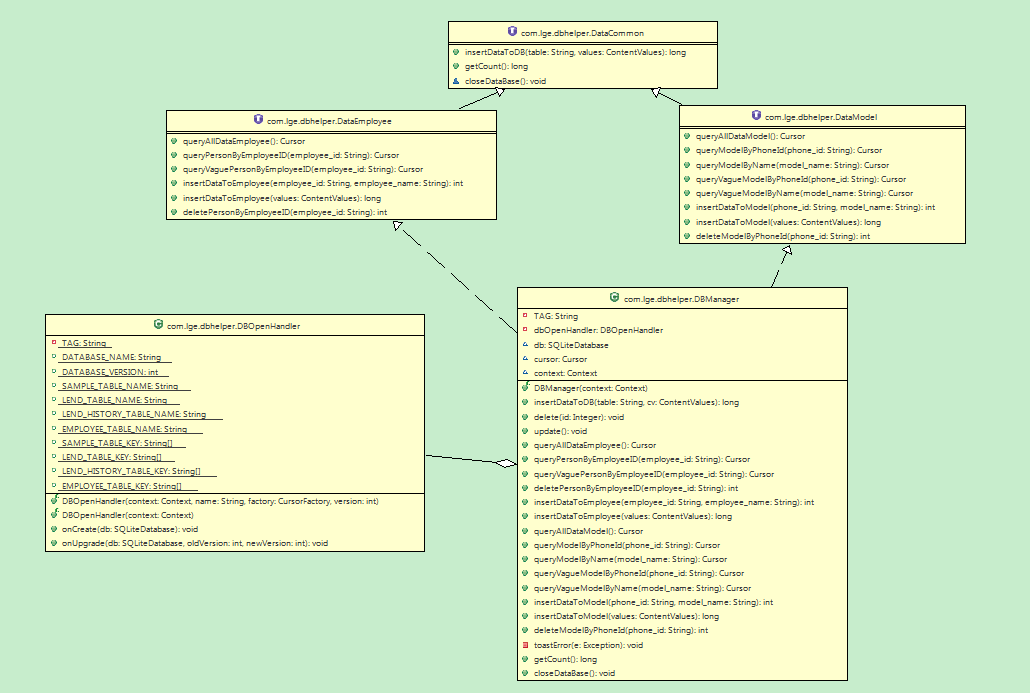
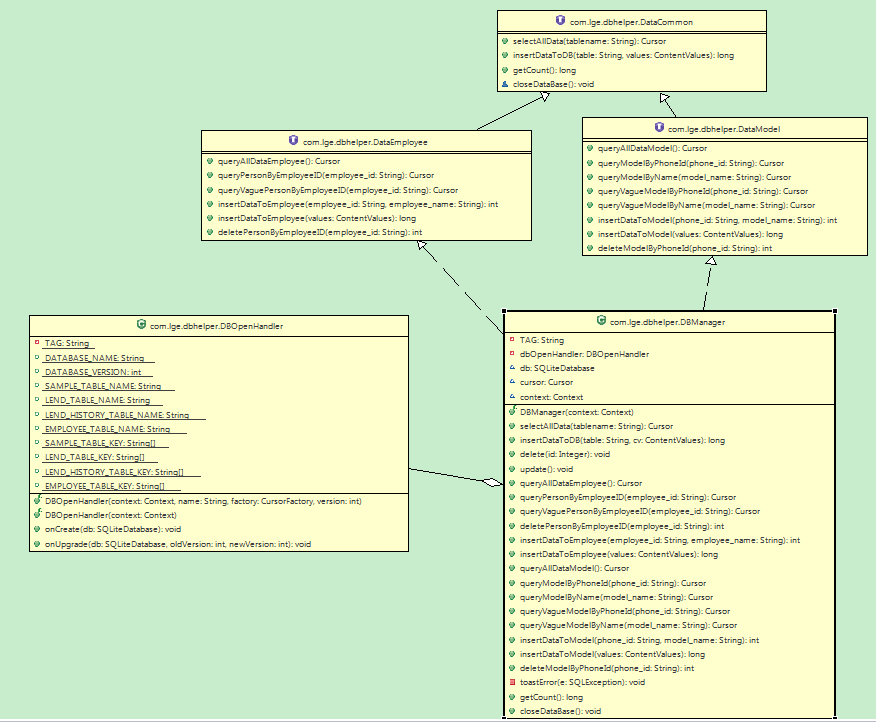
更新人员、样机表的查询语句，更新数据库类图

diff --git a/SampleManagement2/src/com/lge/dbhelper/DBManager.java b/SampleManagement2/src/com/lge/dbhelper/DBManager.java
@@ -20,7 +20,20 @@ public class DBManager implements DataEmployee, DataModel{
         this.dbOpenHandler = new DBOpenHandler(context);
         this.context = context;
     }
-    public long insertDataToDB(String table, ContentValues cv) {
+    
+    @Override
+	public Cursor selectAllData(String tablename) {
+    	try {
+            String sql = "select * from " + tablename;
+            Cursor cursor = db.rawQuery(sql, null);
+            return cursor;
+        }catch (SQLException e) {
+            toastError(e);
+            return null;
+        }
+	}
+
+	public long insertDataToDB(String table, ContentValues cv) {
         
         db = dbOpenHandler.getWritableDatabase();// Get DB operation
         
@@ -30,8 +43,6 @@ public class DBManager implements DataEmployee, DataModel{
         revalue = db.insert(table, null, cv);
         
         Log.i("AndrioidDBTest","insert sucessfully");
-        // Close DB
-        closeDataBase();
         return revalue;
     }
 
@@ -49,14 +60,8 @@ public class DBManager implements DataEmployee, DataModel{
 
     @Override
     public Cursor queryAllDataEmployee() {
-        try {
-            String sql = "select * from " + DBOpenHandler.EMPLOYEE_TABLE_NAME;
-            cursor = db.rawQuery(sql, null);
-            return cursor;
-        }catch (SQLException e) {
-            toastError(e);
-            return null;
-        }
+    	cursor = selectAllData(DBOpenHandler.EMPLOYEE_TABLE_NAME);
+    	return cursor;
     }
 
     @Override
@@ -121,14 +126,8 @@ public class DBManager implements DataEmployee, DataModel{
 
     @Override
     public Cursor queryAllDataModel() {
-        try {
-            String sql = "select * from " + DBOpenHandler.SAMPLE_TABLE_NAME;
-            cursor = db.rawQuery(sql, null);
-            return cursor;
-        } catch (SQLException e) {
-            toastError(e);
-            return null;
-        }
+    	cursor = selectAllData(DBOpenHandler.SAMPLE_TABLE_NAME);
+    	return cursor;
     }
 
     @Override

diff --git a/SampleManagement2/src/com/lge/dbhelper/DataCommon.java b/SampleManagement2/src/com/lge/dbhelper/DataCommon.java
@@ -1,6 +1,7 @@
 package com.lge.dbhelper;
 
 import android.content.ContentValues;
+import android.database.Cursor;
 
 /**
  * 所有数据库的操作
@@ -8,6 +9,12 @@ import android.content.ContentValues;
  *
  */
 public interface DataCommon {
+	/**
+	 * 根据表名查询所有数据
+	 * @param tablename
+	 * @return 返回查询数据
+	 */
+	public Cursor selectAllData(String tablename);
 	// 根据表名，向数据库里面插入数据
 	public long insertDataToDB(String table, ContentValues values);
 	// 查询数据库数据的数量
